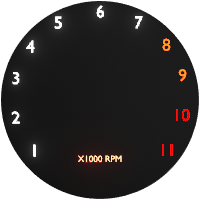
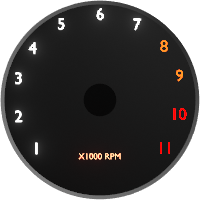
more transformations

diff --git a/src/me/alejandro/capstone/util/Matrix4D.java b/src/me/alejandro/capstone/util/Matrix4D.java
@@ -1,7 +1,5 @@
 package me.alejandro.capstone.util;
 
-import javax.xml.bind.SchemaOutputResolver;
-
 public class Matrix4D implements Cloneable {
 
     double[][] entries;
@@ -20,14 +18,17 @@ public class Matrix4D implements Cloneable {
         this.entries[0][0] = a.x;
         this.entries[1][0] = a.y;
         this.entries[2][0] = a.z;
+        this.entries[3][0] = 1;
 
         this.entries[0][1] = b.x;
         this.entries[1][1] = b.y;
         this.entries[2][1] = b.z;
+        this.entries[3][1] = 1;
 
         this.entries[0][2] = c.x;
         this.entries[1][2] = c.y;
         this.entries[2][2] = c.z;
+        this.entries[3][2] = 1;
 
     }
 
@@ -65,7 +66,7 @@ public class Matrix4D implements Cloneable {
     }
 
     public Matrix4D scale(double factor) {
-        for(int r = 0; r < 4; r++) {
+        for(int r = 0; r < 3; r++) { //Only scale first 3 rows. 4th is reserved for homogeneous coordinates.
             for(int c = 0; c < 4; c++) {
 
                 this.entries[r][c] *= factor;
@@ -122,19 +123,19 @@ public class Matrix4D implements Cloneable {
         return this;
     }
 
-    public Matrix4D augment(Matrix4D matrix) throws IllegalArgumentException {
+    public Matrix4D augment(Matrix4D matrix) {
         return null;
     }
 
-    public Matrix4D getInverse() throws IllegalArgumentException {
+    public Matrix4D getInverse() {
         return null;
     }
 
-    public double getDeterminant() throws IllegalArgumentException {
+    public double getDeterminant() {
         return 0;
     }
 
-    public Matrix4D getAdjugate() throws IllegalArgumentException {
+    public Matrix4D getAdjugate() {
         return null;
     }
 
@@ -154,11 +155,11 @@ public class Matrix4D implements Cloneable {
         return null;
     }
 
-    public double[] getEigenvalues() throws IllegalArgumentException {
+    public double[] getEigenvalues() {
         return null;
     }
 
-    public Matrix4D[] getEigenspaces() throws IllegalArgumentException {
+    public Matrix4D[] getEigenspaces() {
         return null;
     }
 
@@ -172,9 +173,20 @@ public class Matrix4D implements Cloneable {
         return matrix;
     }
 
+    public Matrix4D setIdentity() {
+        for(int r = 0; r < 4; r++) {
+            for (int c = 0; c < 4; c++) {
+                this.entries[r][c] = r == c ? 1 : 0;
+            }
+        }
+        return this;
+    }
+
     //axis must be normal!
     //ang is in radians
     public Matrix4D rotate(Vector3D axis, double ang) {
+
+
 
         double ux = axis.x;
         double uy = axis.y;
@@ -204,7 +216,7 @@ public class Matrix4D implements Cloneable {
         transformation[3][0] = 0;
         transformation[3][1] = 0;
         transformation[3][2] = 0;
-        transformation[3][3] = 0;
+        transformation[3][3] = 1;
 
         return this.transform(transformation);
 

diff --git a/src/me/alejandro/capstone/window/WindowDashboard.java b/src/me/alejandro/capstone/window/WindowDashboard.java
@@ -74,11 +74,16 @@ public class WindowDashboard extends Window {
         g.setColor(Color.RED);
     }
 
+    double frame;
+
     @Override
     public void tick() {
 
-        tach.getModel().getTransformation().rotate(new Vector3D(0, 0, 1), 0.1);
-        tach.getModel().getTransformation().rotate(new Vector3D(0, 1, 0), 0.3);
+        tach.getModel().getTransformation()
+                .setIdentity()
+                .scale(0.4)
+                .rotate(new Vector3D(0, 0, 1), frame -= 0.1)
+                .translate(new Vector3D(-0.6, 0, 0));
 
     }
 

diff --git a/src/me/alejandro/capstone/window/element/Tachometer.java b/src/me/alejandro/capstone/window/element/Tachometer.java
@@ -28,8 +28,8 @@ public class Tachometer implements Drawable {
 
         //defining vertices counter-clockwise
         Vector3D[] vertices = {
-                new Vector3D(-0.02, -0.01, 0),
-                new Vector3D(0.02, -0.01, 0),
+                new Vector3D(-0.02, -0.02, 0),
+                new Vector3D(0.02, -0.02, 0),
                 new Vector3D(0.01, 0.7, 0),
                 new Vector3D(-0.01, 0.7, 0),
         };

diff --git a/src/me/alejandro/capstone/Main.java b/src/me/alejandro/capstone/Main.java
@@ -1,12 +1,8 @@
 package me.alejandro.capstone;
 
-import arduino.Arduino;
-import me.alejandro.capstone.util.Matrix4D;
-import me.alejandro.capstone.util.Vector3D;
-import me.alejandro.capstone.window.Window;
+
 import me.alejandro.capstone.window.WindowDashboard;
 
-import javax.swing.*;
 
 public class Main {
 
